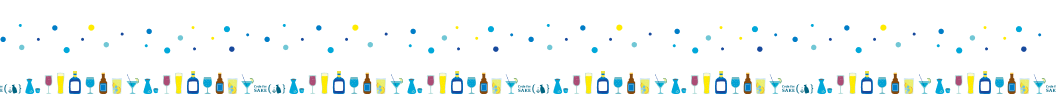
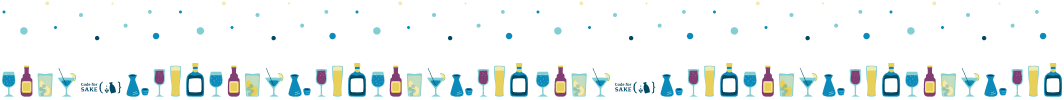
カラーセットと酒蔵マップのデザイン調整

diff --git a/pages/index.vue b/pages/index.vue
@@ -3,18 +3,34 @@
     <!-- <h1>Sakepedia Nuxt版</h1>
     <hr /> -->
     <div class="row">
-      <div class="col-md-4 my-3">
-        <ul class="list-group">
-          <li
-            class="list-group-item disabled font-weight-bold text-white bg-info bg-gradient-1"
-          >
-            おすすめ酒蔵マップ
-          </li>
-          <li class="list-group-item">すべての酒蔵</li>
-        </ul>
-      </div>
-      <div id="map" class="col-md-8 my-3">
-        <breweries-map />
+      <div class="col-12 my-3">
+        <!-- List group -->
+        <div>
+          <h3>酒蔵マップ</h3>
+          <b-card no-body>
+            <b-tabs
+              pills
+              card
+              fill
+              lazy
+              :vertical="isVertical"
+              :nav-wrapper-class="isVertical ? 'col-md-4' : 'map-tab'"
+              :content-class="isVertical ? 'col-md-8' : ''"
+            >
+              <b-tab title="都道府県別の酒蔵" active>
+                <div class="map-wrap">
+                  <breweries-map />
+                </div>
+              </b-tab>
+              <b-tab title="温泉近くの酒蔵">
+                <div class="map-wrap">Comming Soon...</div>
+              </b-tab>
+              <b-tab title="自然の中の酒蔵">
+                <div class="map-wrap">Comming Soon...</div>
+              </b-tab>
+            </b-tabs>
+          </b-card>
+        </div>
       </div>
     </div>
   </div>
@@ -26,11 +42,37 @@ export default {
   components: {
     BreweriesMap,
   },
+  data() {
+    return {
+      isVertical: false,
+    };
+  },
+  mounted() {
+    window.addEventListener('resize', this.handleResize);
+    this.handleResize();
+  },
+  destroyed() {
+    window.removeEventListener('resize', this.handleResize);
+  },
+  methods: {
+    handleResize: function () {
+      if (window.innerWidth <= 800) {
+        this.isVertical = false;
+      } else {
+        this.isVertical = true;
+      }
+    },
+  },
 };
 </script>
 
-<style scoped>
-#map {
-  min-height: 500px;
+<style>
+.map-wrap {
+  height: 45vh;
+  width: 100%;
+  text-align: center;
+}
+.map-tab {
+  min-height: 4.5rem;
 }
 </style>

diff --git a/components/BreweriesMap.vue b/components/BreweriesMap.vue
@@ -112,30 +112,72 @@ export default {
 };
 </script>
 
-<style scoped>
+<style lang="scss" scoped>
 #map {
   margin-left: auto;
   margin-right: auto;
   width: 100%;
   height: 100%;
 }
-#map >>> .marker-cluster {
+</style>
+<style lang="scss">
+#map .marker-cluster {
   width: 20px !important;
   height: 20px !important;
   margin-top: −10px !important;
   margin-left: -10px !important;
   border-radius: 20px;
-}
-#map >>> .marker-cluster div {
-  width: 16px !important;
-  height: 16px !important;
-  margin-top: 2px;
-  margin-left: 2px;
+  div {
+    width: 16px !important;
+    height: 16px !important;
+    margin-top: 2px;
+    margin-left: 2px;
 
-  border-radius: 16px;
-  font-size: 12px;
+    border-radius: 16px;
+    font-size: 12px;
+  }
+  span {
+    line-height: 16px;
+  }
+  &.marker-cluster-small {
+    background-color: var(--cluster-small);
+    div {
+      background-color: var(--cluster-small);
+    }
+  }
+  &.marker-cluster-medium {
+    background-color: var(--cluster-medium);
+    div {
+      background-color: var(--cluster-medium);
+    }
+  }
+  &.marker-cluster-large {
+    background-color: var(--cluster-large);
+    div {
+      background-color: var(--cluster-large);
+    }
+  }
 }
-#map >>> .marker-cluster span {
-  line-height: 16px;
+
+/* IE 6-8 fallback colors */
+#map .leaflet-oldie {
+  .marker-cluster-small {
+    background-color: var(--success);
+    div {
+      background-color: var(--success);
+    }
+  }
+  .marker-cluster-medium {
+    background-color: var(--warning);
+    div {
+      background-color: var(--warning);
+    }
+  }
+  .marker-cluster-large {
+    background-color: var(--danger);
+    div {
+      background-color: var(--danger);
+    }
+  }
 }
 </style>

diff --git a/assets/style/app.scss b/assets/style/app.scss
@@ -1,9 +1,14 @@
+$white: #ffffff;
+$dark: #323642;
 $primary: #004761;
-$secondary: #004761;
-$danger: #B61584;
+$warning: #E8D058;
+$danger: #823E73;
 $success: #8CBD21;
-$warning: #F4F0DC;
 $light: #0C8BBA;
+$more-light: #82CFD3;
+$info: #F4E9AF;
+
+$secondary: $primary;
 
 @import '~bootstrap/scss/bootstrap';
 
@@ -28,12 +33,16 @@ $light: #0C8BBA;
   --font14: 14px;
   --background-color: rgb(249, 250, 251);
   --table-td-padding: 11px;
+
+  --cluster-small: rgba(140, 189, 33, 0.4);
+  --cluster-medium: rgba(232, 208, 88, 0.4);
+  --cluster-large: rgba(130, 62, 115, 0.4);
 }
-  
 
 #__nuxt, #__layout,
 body {
   height: 100vh;
+  color: $dark;
 }
 
 #wrap {
@@ -64,7 +73,6 @@ body {
 }
 
 #footer {
-  color: var(--primary);
   display: flex;
   justify-content: center;
   min-height: var(--footer-height);
@@ -73,6 +81,6 @@ body {
 a {
   font-weight: 500;
   text-decoration: none;
-  color: var(--light);
+  color: $light;
 }
 
